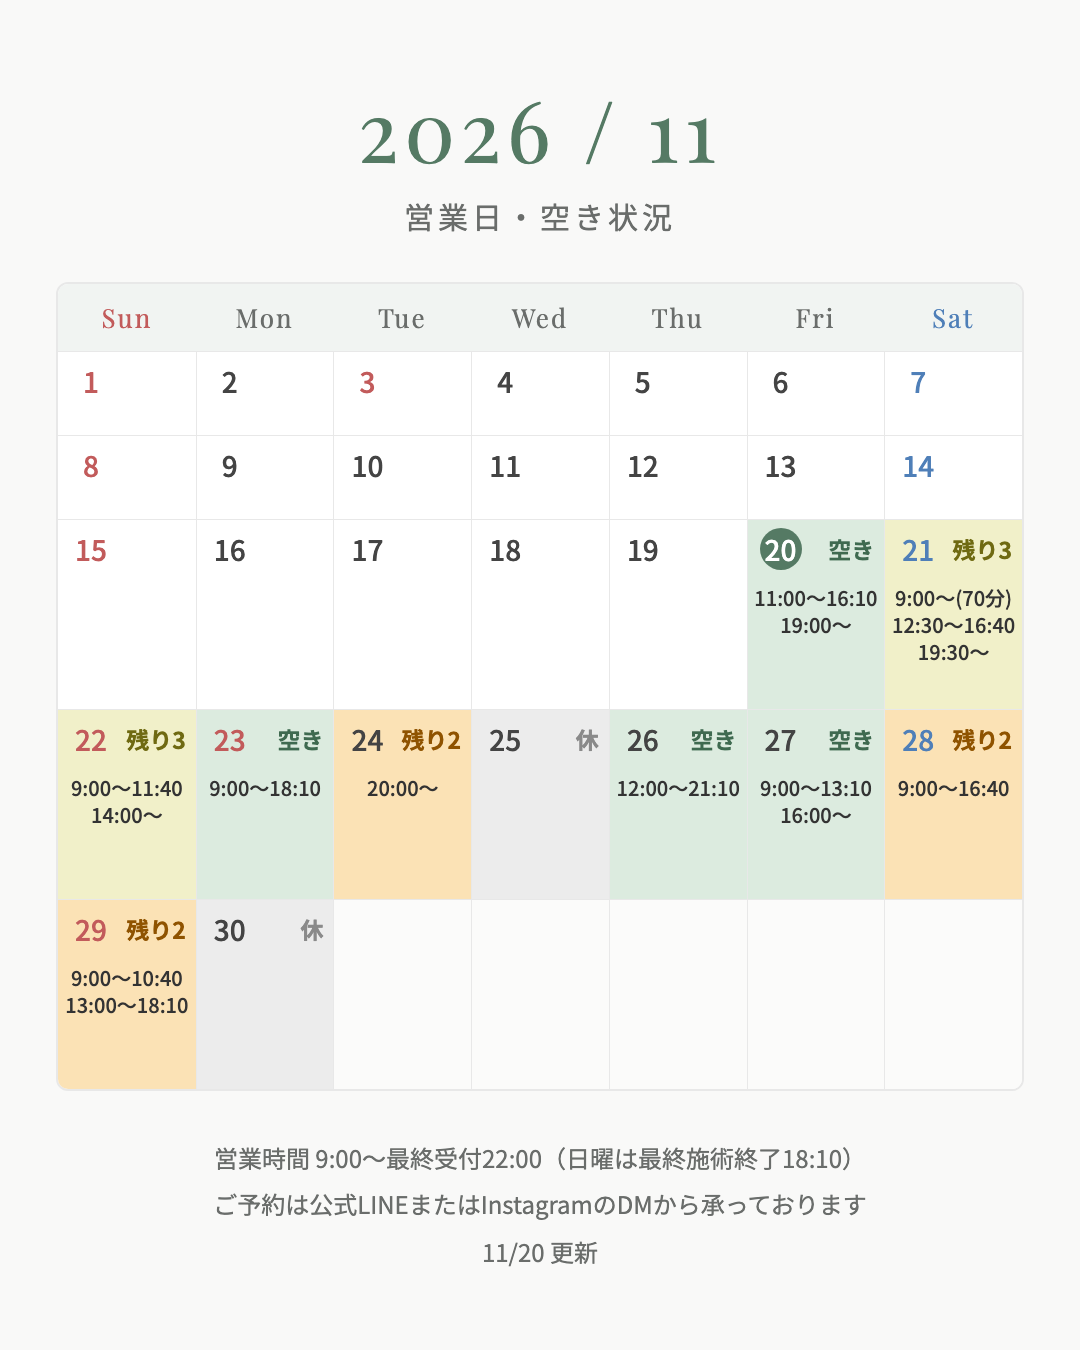
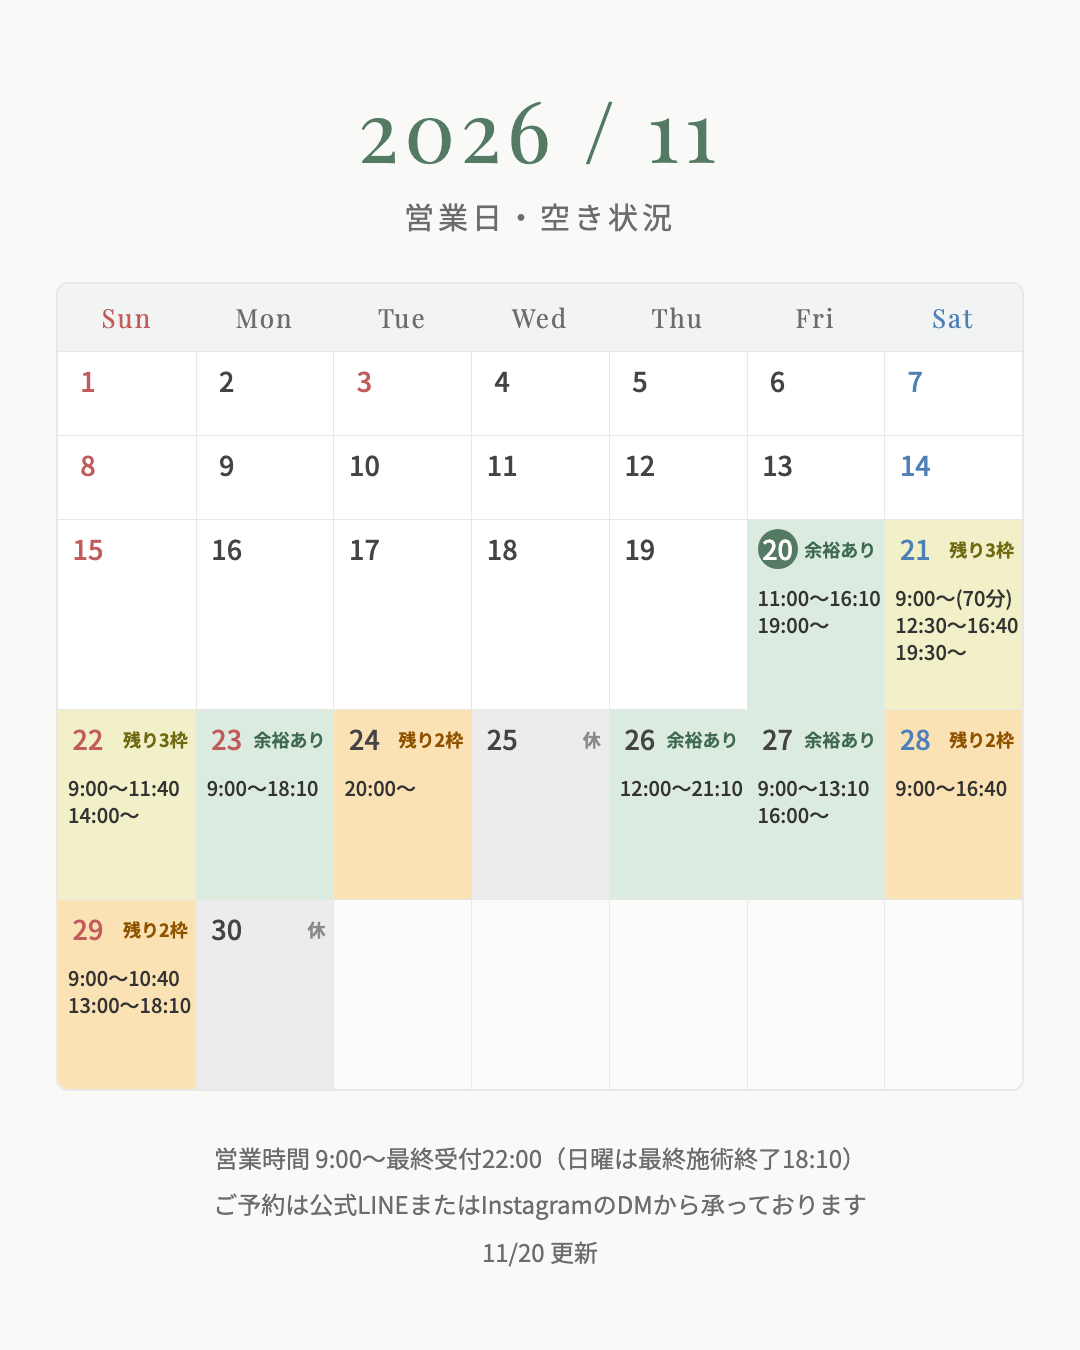
chore: 空き状況カレンダーの表記を「残り◯枠/余裕あり」に変更し時間帯を左寄せに

diff --git a/scripts/calendar/gen.py b/scripts/calendar/gen.py
@@ -61,8 +61,8 @@ for w in weeks:
         if d.day in NOTES: cls.append('hasnote')
         if pastrow: cls.append('pr')
         lab, ccls = '', ''
-        if st == 'open': lab, ccls = '空き', 'c-open'
-        elif st == 'few': lab, ccls = f'残り{rem}', f'c-few{rem}'
+        if st == 'open': lab, ccls = '余裕あり', 'c-open'
+        elif st == 'few': lab, ccls = f'残り{rem}枠', f'c-few{rem}'
         elif st == 'full': lab, ccls = '満', 'c-full'
         elif st == 'closed': lab, ccls = '休', 'c-closed'
         if ccls: cls.append(ccls)
@@ -76,19 +76,19 @@ page = f'''<!doctype html><html lang="ja"><head><meta charset="utf-8">
 body{{width:1080px;height:1350px;background:#F9F9F8;font-family:'Noto Sans JP','Hiragino Sans',sans-serif;color:#333;padding:72px 56px}}
 h1{{font-family:'Playfair Display',serif;font-weight:400;font-size:84px;color:#557A64;letter-spacing:6px;text-align:center}}
 .sub{{text-align:center;color:#6A6D6B;font-size:30px;letter-spacing:4px;margin:10px 0 44px}}
-.grid{{display:grid;grid-template-columns:repeat(7,1fr);background:#fff;border:2px solid #E8E8E8;border-radius:12px;overflow:hidden}}
+.grid{{display:grid;grid-template-columns:repeat(7,minmax(0,1fr));background:#fff;border:2px solid #E8E8E8;border-radius:12px;overflow:hidden}}
 .dow{{text-align:center;padding:16px 0;font-size:26px;color:#6A6D6B;background:#F1F4F2;font-family:'Playfair Display',serif;letter-spacing:2px}}
 .dow.sun{{color:#C25B5B}}.dow.sat{{color:#4F7FB8}}
 .cell{{min-height:190px;border-top:1px solid #E8E8E8;border-left:1px solid #E8E8E8;padding:8px 4px;text-align:center}}
 .cell:nth-child(7n+8){{border-left:none}}
 .cell.blank{{background:#FBFBFA}}
-.top{{display:flex;align-items:center;justify-content:space-between;height:42px;padding:0 6px 0 8px}}
-.d{{min-width:42px;height:42px;line-height:42px;font-size:28px;font-weight:500;text-align:center;color:#444}}
+.top{{display:flex;align-items:center;justify-content:space-between;gap:4px;height:42px;padding:0 4px 0 6px}}
+.d{{min-width:40px;height:40px;line-height:40px;font-size:27px;font-weight:500;text-align:center;color:#444}}
 .sun .d{{color:#C25B5B}}.sat .d{{color:#4F7FB8}}
 .today .d{{background:#557A64;color:#fff;border-radius:999px}}
-.lab{{font-size:23px;font-weight:700}}
+.lab{{font-size:18px;font-weight:700;white-space:nowrap;letter-spacing:0}}
 .cell.pr{{min-height:0;height:84px}}
-.n{{margin-top:14px;font-size:20px;line-height:1.35;font-weight:500;color:#333;letter-spacing:0;white-space:nowrap}}
+.n{{margin-top:14px;font-size:20px;line-height:1.35;font-weight:500;color:#333;letter-spacing:0;white-space:nowrap;text-align:left;padding-left:6px}}
 .c-open{{background:#DCEBDF}} .c-open .lab{{color:#3F6A50}}
 .c-few3{{background:#F1F0C9}} .c-few3 .lab{{color:#6F6A12}}
 .c-few2{{background:#FBE2B5}} .c-few2 .lab{{color:#8F5300}}
